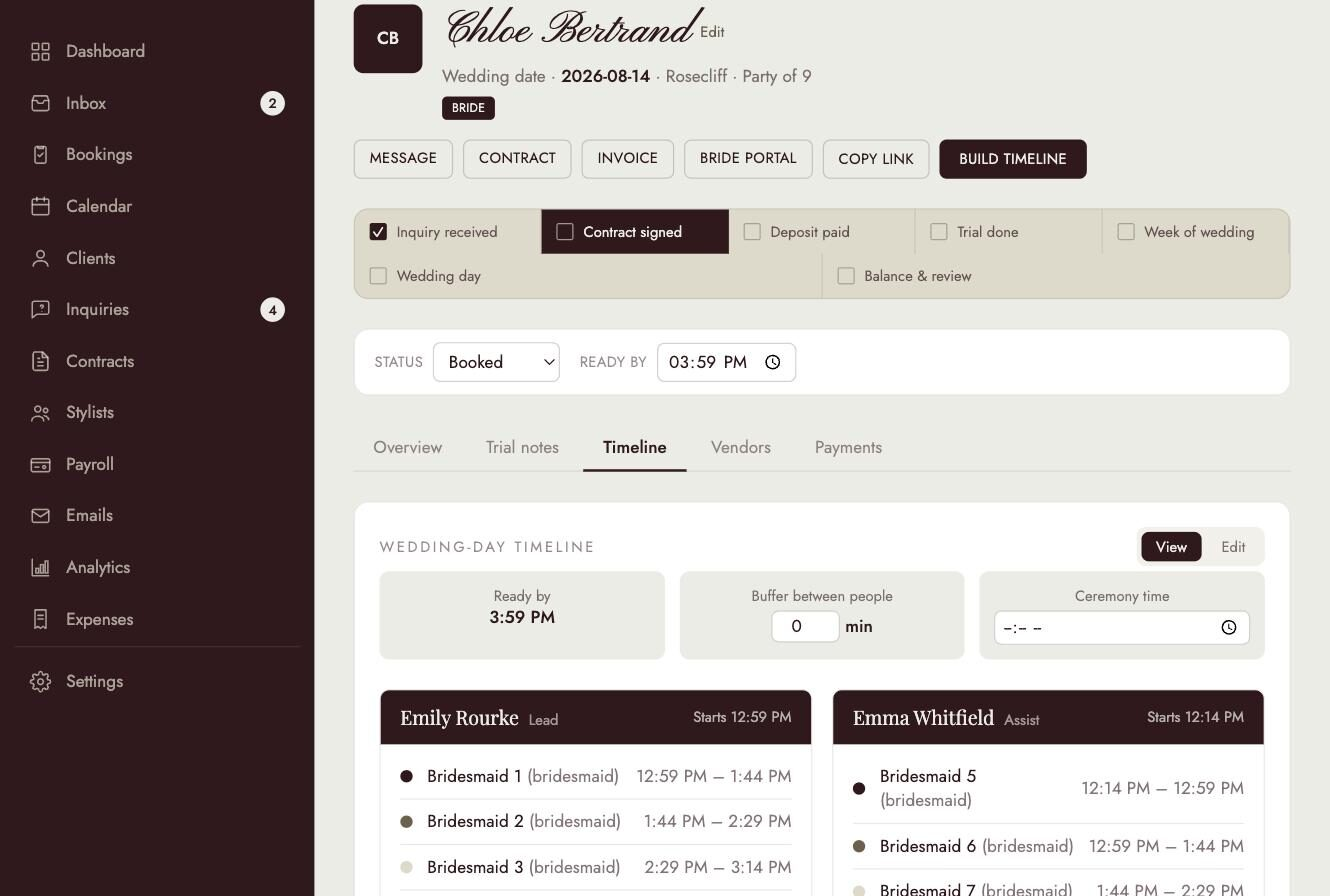
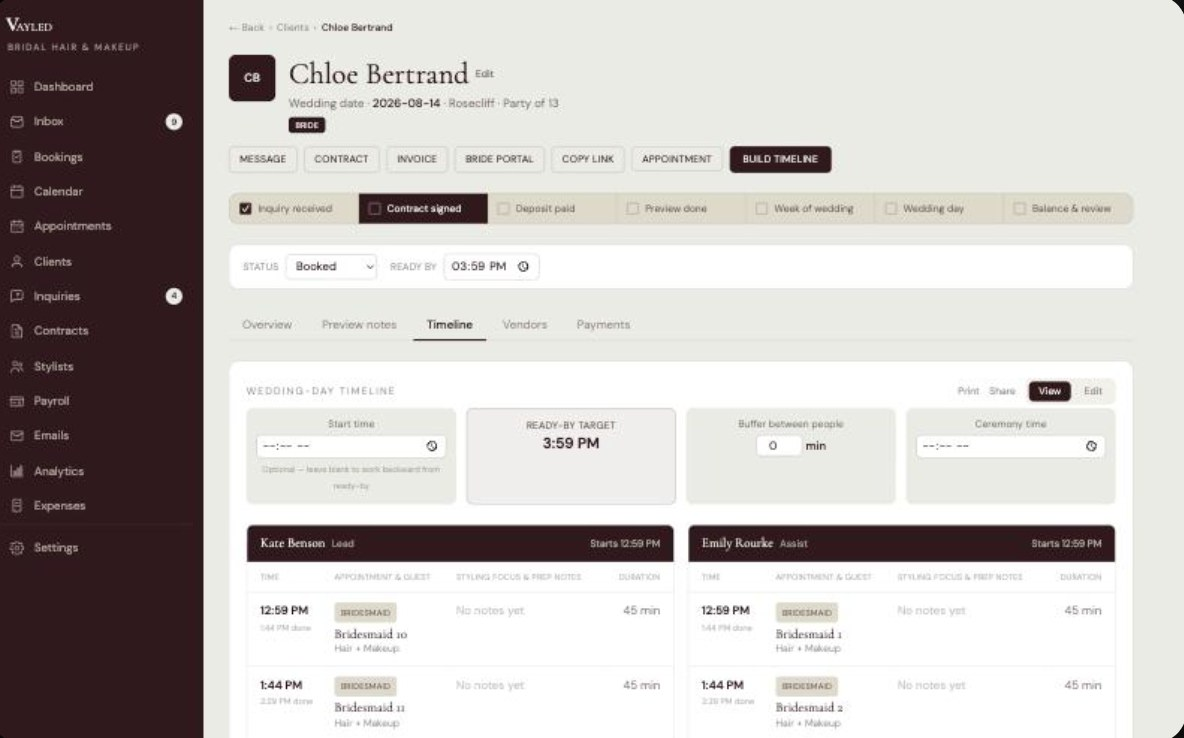
Update marketing screenshots and add Bookings/Appointments/Team feature sections

diff --git a/app/(marketing)/features/page.tsx b/app/(marketing)/features/page.tsx
@@ -10,10 +10,22 @@ export const metadata: Metadata = {
 
 const SECTIONS = [
   {
+    label: "Bookings",
+    src: "/marketing/bookings.jpg",
+    title: "Every project, at a glance",
+    body: "Search by name or venue, filter by status, and see the date, venue, contract total, and deposit progress on every card — no more opening five different jobs to find the one bride who just texted you back.",
+  },
+  {
+    label: "Appointments",
+    src: "/marketing/appointments.jpg",
+    title: "One schedule for every meeting",
+    body: "Preview fittings, rehearsals, venue walk-throughs, and consultations all land in one date-grouped list, instead of checking three different tabs to see what's actually on the books this week.",
+  },
+  {
     label: "Timeline builder",
     src: "/marketing/timeline-builder.jpg",
     title: "One timeline, your whole team",
-    body: "Split the wedding party across your stylists by headcount instead of assigning people one at a time. Drag anyone to a different stylist's schedule if plans change, and every stylist sees exactly where they need to be and when.",
+    body: "Split the wedding party across your stylists by headcount instead of assigning people one at a time. Drag anyone to a different stylist's schedule if plans change, and every stylist sees exactly where they need to be, who they're doing, and any styling notes for that person.",
   },
   {
     label: "Calendar",
@@ -74,6 +86,12 @@ const SECTIONS = [
     src: "/marketing/smart-reminders.jpg",
     title: "Nudges for the things that fall through the cracks",
     body: "Vayled flags balance-due dates, unbooked previews, and pre-preview questionnaires that need to go out — you still send it, it just tells you when.",
+  },
+  {
+    label: "Your team",
+    src: "/marketing/stylists.jpg",
+    title: "Your roster, not a spreadsheet",
+    body: "See every stylist's pay percentage, login status, and active/inactive state on one card each. Invite someone to log in, adjust their cut, or mark them inactive without leaving the page.",
   },
 ];
 

diff --git a/app/(marketing)/page.tsx b/app/(marketing)/page.tsx
@@ -44,6 +44,12 @@ const FEATURES = [
     title: "Stay a step ahead of your clients, not behind them",
     body: "Vayled flags balance-due dates, previews that still need to be booked, and questionnaires that should've gone out — so you're the one reaching out first, instead of scrambling to catch up.",
   },
+  {
+    label: "Bookings",
+    src: "/marketing/bookings.jpg",
+    title: "Every project, at a glance",
+    body: "Search by name or venue, filter by status, and see the date, venue, contract total, and deposit progress on every card — no more opening five different jobs to find the one bride who just texted you back.",
+  },
 ];
 
 export default function MarketingHome() {

diff --git a/CHANGELOG.md b/CHANGELOG.md
@@ -2,6 +2,10 @@
 
 Running log of changes requested while testing the app. Newest first.
 
+## 2026-09-01 (81)
+
+- **Updated marketing screenshots with the new UI** — re-captured `timeline-builder.jpg` and `pipeline.jpg` from the redesigned Timeline tab and booking checklist, and added three new screenshots (`bookings.jpg`, `appointments.jpg`, `stylists.jpg`). Added a new "Bookings" feature block to the homepage, and "Bookings," "Appointments," and "Your team" sections to the features page — all using real screenshots from the current build instead of the old design.
+
 ## 2026-09-01 (80)
 
 - **Redesigned the studio Timeline tab (view mode) as a table** — per stylist, each row now shows Time / Appointment & Guest / Styling Focus & Prep Notes / Duration, matching a reference layout Kate shared. Role shows as a small pill (bride's row gets a gold-tinted highlight and a "Bride highlight" pill instead of the raw role text). Added a prominent gold "Ready-by target" callout in the stats grid, a footer stats bar (start time, total chair time, appointment count, ceremony time), and Print/Share buttons in the header (Print calls the browser print dialog; Share reuses the existing "Copy portal link" action). Colors/fonts are Vayled's existing charcoal/ivory/gold/beige palette — no new fonts or colors introduced. Edit mode is unchanged except for one addition below.
